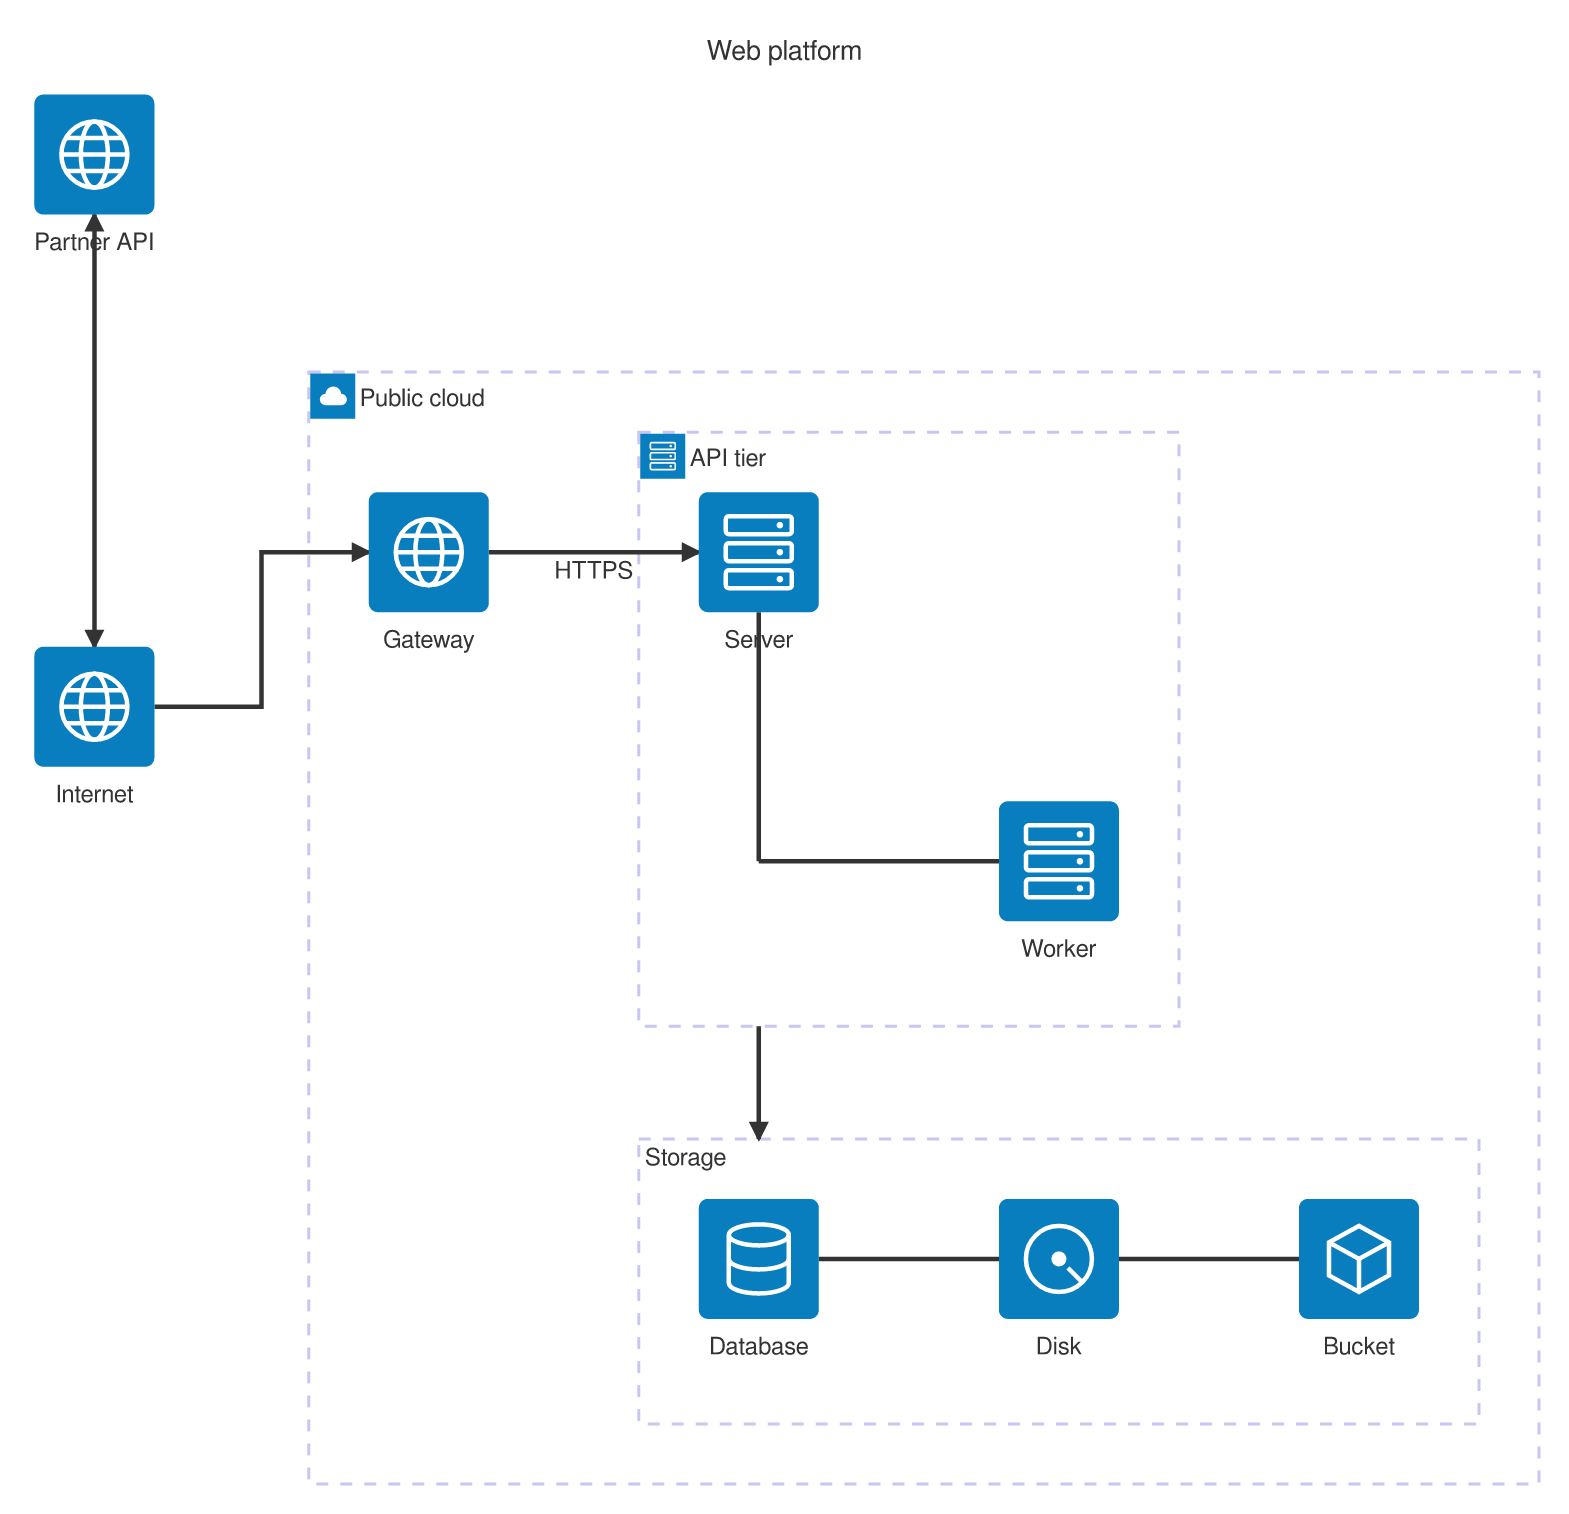
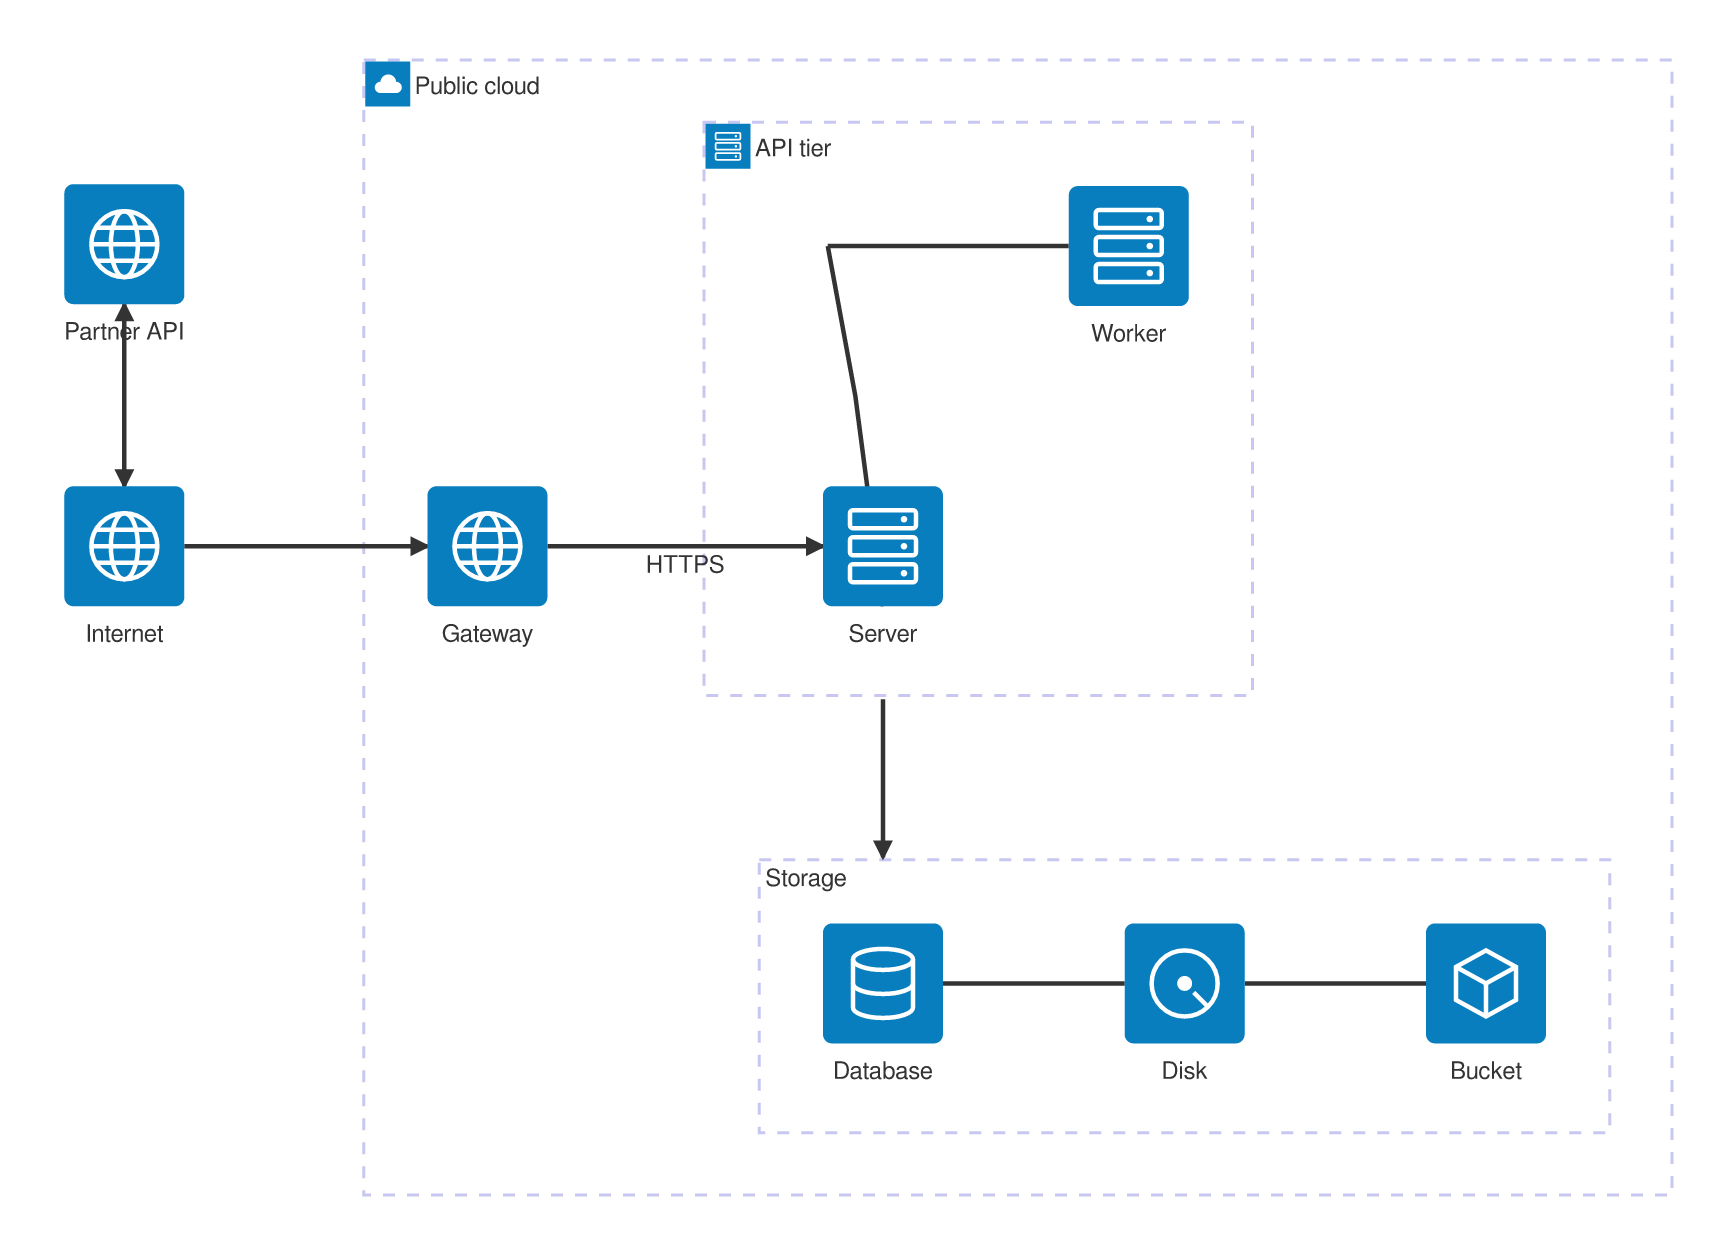
Regenerate gallery after force-directed mindmap and architecture layouts
Claude-Session: https://claude.ai/code/session_01YSBvDqvT7DHspcB7hQZR6n

diff --git a/docs/GALLERY.md b/docs/GALLERY.md
@@ -5,7 +5,7 @@ Regenerate with `cargo run --release --example gallery`.
 
 ## agentflow
 
-Source: [`examples/diagrams/agentflow.mmd`](../examples/diagrams/agentflow.mmd) · rendered in 611.88µs
+Source: [`examples/diagrams/agentflow.mmd`](../examples/diagrams/agentflow.mmd) · rendered in 540.00µs
 
 <details><summary>source</summary>
 
@@ -37,7 +37,7 @@ agentflow-beta TB
 
 ## architecture
 
-Source: [`examples/diagrams/architecture.mmd`](../examples/diagrams/architecture.mmd) · rendered in 199.60µs
+Source: [`examples/diagrams/architecture.mmd`](../examples/diagrams/architecture.mmd) · rendered in 612.50µs
 
 <details><summary>source</summary>
 
@@ -74,7 +74,7 @@ architecture-beta
 
 ## block
 
-Source: [`examples/diagrams/block.mmd`](../examples/diagrams/block.mmd) · rendered in 206.50µs
+Source: [`examples/diagrams/block.mmd`](../examples/diagrams/block.mmd) · rendered in 185.29µs
 
 <details><summary>source</summary>
 
@@ -109,7 +109,7 @@ block-beta
 
 ## c4-container
 
-Source: [`examples/diagrams/c4-container.mmd`](../examples/diagrams/c4-container.mmd) · rendered in 538.37µs
+Source: [`examples/diagrams/c4-container.mmd`](../examples/diagrams/c4-container.mmd) · rendered in 503.97µs
 
 <details><summary>source</summary>
 
@@ -154,7 +154,7 @@ C4Container
 
 ## c4
 
-Source: [`examples/diagrams/c4.mmd`](../examples/diagrams/c4.mmd) · rendered in 580.71µs
+Source: [`examples/diagrams/c4.mmd`](../examples/diagrams/c4.mmd) · rendered in 507.02µs
 
 <details><summary>source</summary>
 
@@ -209,7 +209,7 @@ C4Context
 
 ## class
 
-Source: [`examples/diagrams/class.mmd`](../examples/diagrams/class.mmd) · rendered in 485.36µs
+Source: [`examples/diagrams/class.mmd`](../examples/diagrams/class.mmd) · rendered in 341.94µs
 
 <details><summary>source</summary>
 
@@ -249,7 +249,7 @@ classDiagram
 
 ## cynefin
 
-Source: [`examples/diagrams/cynefin.mmd`](../examples/diagrams/cynefin.mmd) · rendered in 132.83µs
+Source: [`examples/diagrams/cynefin.mmd`](../examples/diagrams/cynefin.mmd) · rendered in 139.14µs
 
 <details><summary>source</summary>
 
@@ -285,7 +285,7 @@ cynefin-beta
 
 ## er-subgraphs
 
-Source: [`examples/diagrams/er-subgraphs.mmd`](../examples/diagrams/er-subgraphs.mmd) · rendered in 401.42µs
+Source: [`examples/diagrams/er-subgraphs.mmd`](../examples/diagrams/er-subgraphs.mmd) · rendered in 446.28µs
 
 <details><summary>source</summary>
 
@@ -325,7 +325,7 @@ erDiagram
 
 ## er
 
-Source: [`examples/diagrams/er.mmd`](../examples/diagrams/er.mmd) · rendered in 346.04µs
+Source: [`examples/diagrams/er.mmd`](../examples/diagrams/er.mmd) · rendered in 369.60µs
 
 <details><summary>source</summary>
 
@@ -377,7 +377,7 @@ erDiagram
 
 ## eventmodeling
 
-Source: [`examples/diagrams/eventmodeling.mmd`](../examples/diagrams/eventmodeling.mmd) · rendered in 161.07µs
+Source: [`examples/diagrams/eventmodeling.mmd`](../examples/diagrams/eventmodeling.mmd) · rendered in 172.79µs
 
 <details><summary>source</summary>
 
@@ -401,7 +401,7 @@ tf 08 rmo CartItems ->> 03 ->> 07
 
 ## flowchart
 
-Source: [`examples/diagrams/flowchart.mmd`](../examples/diagrams/flowchart.mmd) · rendered in 388.80µs
+Source: [`examples/diagrams/flowchart.mmd`](../examples/diagrams/flowchart.mmd) · rendered in 385.44µs
 
 <details><summary>source</summary>
 
@@ -429,7 +429,7 @@ flowchart TD
 
 ## gantt
 
-Source: [`examples/diagrams/gantt.mmd`](../examples/diagrams/gantt.mmd) · rendered in 541.77µs
+Source: [`examples/diagrams/gantt.mmd`](../examples/diagrams/gantt.mmd) · rendered in 582.04µs
 
 <details><summary>source</summary>
 
@@ -469,7 +469,7 @@ gantt
 
 ## gitgraph
 
-Source: [`examples/diagrams/gitgraph.mmd`](../examples/diagrams/gitgraph.mmd) · rendered in 180.30µs
+Source: [`examples/diagrams/gitgraph.mmd`](../examples/diagrams/gitgraph.mmd) · rendered in 163.53µs
 
 <details><summary>source</summary>
 
@@ -507,7 +507,7 @@ gitGraph
 
 ## info
 
-Source: [`examples/diagrams/info.mmd`](../examples/diagrams/info.mmd) · rendered in 93.04µs
+Source: [`examples/diagrams/info.mmd`](../examples/diagrams/info.mmd) · rendered in 88.00µs
 
 <details><summary>source</summary>
 
@@ -521,7 +521,7 @@ info showInfo
 
 ## ishikawa
 
-Source: [`examples/diagrams/ishikawa.mmd`](../examples/diagrams/ishikawa.mmd) · rendered in 177.68µs
+Source: [`examples/diagrams/ishikawa.mmd`](../examples/diagrams/ishikawa.mmd) · rendered in 158.63µs
 
 <details><summary>source</summary>
 
@@ -554,7 +554,7 @@ ishikawa-beta
 
 ## journey
 
-Source: [`examples/diagrams/journey.mmd`](../examples/diagrams/journey.mmd) · rendered in 140.67µs
+Source: [`examples/diagrams/journey.mmd`](../examples/diagrams/journey.mmd) · rendered in 151.98µs
 
 <details><summary>source</summary>
 
@@ -579,7 +579,7 @@ journey
 
 ## kanban
 
-Source: [`examples/diagrams/kanban.mmd`](../examples/diagrams/kanban.mmd) · rendered in 209.37µs
+Source: [`examples/diagrams/kanban.mmd`](../examples/diagrams/kanban.mmd) · rendered in 221.96µs
 
 <details><summary>source</summary>
 
@@ -614,7 +614,7 @@ kanban
 
 ## mindmap
 
-Source: [`examples/diagrams/mindmap.mmd`](../examples/diagrams/mindmap.mmd) · rendered in 214.48µs
+Source: [`examples/diagrams/mindmap.mmd`](../examples/diagrams/mindmap.mmd) · rendered in 2.69ms
 
 <details><summary>source</summary>
 
@@ -652,7 +652,7 @@ mindmap
 
 ## packet
 
-Source: [`examples/diagrams/packet.mmd`](../examples/diagrams/packet.mmd) · rendered in 238.46µs
+Source: [`examples/diagrams/packet.mmd`](../examples/diagrams/packet.mmd) · rendered in 274.48µs
 
 <details><summary>source</summary>
 
@@ -686,7 +686,7 @@ packet-beta
 
 ## pie
 
-Source: [`examples/diagrams/pie.mmd`](../examples/diagrams/pie.mmd) · rendered in 103.35µs
+Source: [`examples/diagrams/pie.mmd`](../examples/diagrams/pie.mmd) · rendered in 123.36µs
 
 <details><summary>source</summary>
 
@@ -705,7 +705,7 @@ pie showData
 
 ## quadrant
 
-Source: [`examples/diagrams/quadrant.mmd`](../examples/diagrams/quadrant.mmd) · rendered in 130.89µs
+Source: [`examples/diagrams/quadrant.mmd`](../examples/diagrams/quadrant.mmd) · rendered in 141.32µs
 
 <details><summary>source</summary>
 
@@ -734,7 +734,7 @@ quadrantChart
 
 ## radar
 
-Source: [`examples/diagrams/radar.mmd`](../examples/diagrams/radar.mmd) · rendered in 150.92µs
+Source: [`examples/diagrams/radar.mmd`](../examples/diagrams/radar.mmd) · rendered in 170.14µs
 
 <details><summary>source</summary>
 
@@ -762,7 +762,7 @@ radar-beta
 
 ## railroad-abnf
 
-Source: [`examples/diagrams/railroad-abnf.mmd`](../examples/diagrams/railroad-abnf.mmd) · rendered in 158.10µs
+Source: [`examples/diagrams/railroad-abnf.mmd`](../examples/diagrams/railroad-abnf.mmd) · rendered in 172.15µs
 
 <details><summary>source</summary>
 
@@ -783,7 +783,7 @@ port = [ ":" ] 1*5DIGIT %x30-39 ;
 
 ## railroad-ir
 
-Source: [`examples/diagrams/railroad-ir.mmd`](../examples/diagrams/railroad-ir.mmd) · rendered in 167.23µs
+Source: [`examples/diagrams/railroad-ir.mmd`](../examples/diagrams/railroad-ir.mmd) · rendered in 162.19µs
 
 <details><summary>source</summary>
 
@@ -811,7 +811,7 @@ number = sequence(optional(terminal("-")), oneOrMore(nonterminal("digit")), spec
 
 ## railroad-peg
 
-Source: [`examples/diagrams/railroad-peg.mmd`](../examples/diagrams/railroad-peg.mmd) · rendered in 163.83µs
+Source: [`examples/diagrams/railroad-peg.mmd`](../examples/diagrams/railroad-peg.mmd) · rendered in 157.91µs
 
 <details><summary>source</summary>
 
@@ -832,7 +832,7 @@ Identifier <- !Keyword Letter Letter* . ;
 
 ## railroad
 
-Source: [`examples/diagrams/railroad.mmd`](../examples/diagrams/railroad.mmd) · rendered in 272.46µs
+Source: [`examples/diagrams/railroad.mmd`](../examples/diagrams/railroad.mmd) · rendered in 189.80µs
 
 <details><summary>source</summary>
 
@@ -854,7 +854,7 @@ string = '"' { ? any character except quote ? } '"' ;
 
 ## requirement
 
-Source: [`examples/diagrams/requirement.mmd`](../examples/diagrams/requirement.mmd) · rendered in 655.08µs
+Source: [`examples/diagrams/requirement.mmd`](../examples/diagrams/requirement.mmd) · rendered in 451.84µs
 
 <details><summary>source</summary>
 
@@ -936,7 +936,7 @@ requirementDiagram
 
 ## sankey
 
-Source: [`examples/diagrams/sankey.mmd`](../examples/diagrams/sankey.mmd) · rendered in 463.29µs
+Source: [`examples/diagrams/sankey.mmd`](../examples/diagrams/sankey.mmd) · rendered in 423.94µs
 
 <details><summary>source</summary>
 
@@ -981,7 +981,7 @@ Electricity grid,"Heating and cooling, homes",42.0
 
 ## sequence
 
-Source: [`examples/diagrams/sequence.mmd`](../examples/diagrams/sequence.mmd) · rendered in 215.42µs
+Source: [`examples/diagrams/sequence.mmd`](../examples/diagrams/sequence.mmd) · rendered in 191.00µs
 
 <details><summary>source</summary>
 
@@ -1016,7 +1016,7 @@ sequenceDiagram
 
 ## shapes
 
-Source: [`examples/diagrams/shapes.mmd`](../examples/diagrams/shapes.mmd) · rendered in 1.09ms
+Source: [`examples/diagrams/shapes.mmd`](../examples/diagrams/shapes.mmd) · rendered in 1.04ms
 
 <details><summary>source</summary>
 
@@ -1052,7 +1052,7 @@ flowchart LR
 
 ## state
 
-Source: [`examples/diagrams/state.mmd`](../examples/diagrams/state.mmd) · rendered in 455.54µs
+Source: [`examples/diagrams/state.mmd`](../examples/diagrams/state.mmd) · rendered in 501.78µs
 
 <details><summary>source</summary>
 
@@ -1080,7 +1080,7 @@ stateDiagram-v2
 
 ## subgraph-collapse
 
-Source: [`examples/diagrams/subgraph-collapse.mmd`](../examples/diagrams/subgraph-collapse.mmd) · rendered in 457.27µs
+Source: [`examples/diagrams/subgraph-collapse.mmd`](../examples/diagrams/subgraph-collapse.mmd) · rendered in 432.11µs
 
 <details><summary>source</summary>
 
@@ -1110,7 +1110,7 @@ flowchart LR
 
 ## subgraphs
 
-Source: [`examples/diagrams/subgraphs.mmd`](../examples/diagrams/subgraphs.mmd) · rendered in 482.00µs
+Source: [`examples/diagrams/subgraphs.mmd`](../examples/diagrams/subgraphs.mmd) · rendered in 679.01µs
 
 <details><summary>source</summary>
 
@@ -1141,7 +1141,7 @@ flowchart LR
 
 ## swimlane
 
-Source: [`examples/diagrams/swimlane.mmd`](../examples/diagrams/swimlane.mmd) · rendered in 294.22µs
+Source: [`examples/diagrams/swimlane.mmd`](../examples/diagrams/swimlane.mmd) · rendered in 261.34µs
 
 <details><summary>source</summary>
 
@@ -1171,7 +1171,7 @@ swimlane-beta LR
 
 ## timeline
 
-Source: [`examples/diagrams/timeline.mmd`](../examples/diagrams/timeline.mmd) · rendered in 256.89µs
+Source: [`examples/diagrams/timeline.mmd`](../examples/diagrams/timeline.mmd) · rendered in 258.84µs
 
 <details><summary>source</summary>
 
@@ -1196,7 +1196,7 @@ timeline
 
 ## treemap
 
-Source: [`examples/diagrams/treemap.mmd`](../examples/diagrams/treemap.mmd) · rendered in 187.21µs
+Source: [`examples/diagrams/treemap.mmd`](../examples/diagrams/treemap.mmd) · rendered in 204.55µs
 
 <details><summary>source</summary>
 
@@ -1233,7 +1233,7 @@ classDef highlight fill:#ffd166,stroke:#c77d00,color:#000
 
 ## treeview
 
-Source: [`examples/diagrams/treeview.mmd`](../examples/diagrams/treeview.mmd) · rendered in 139.84µs
+Source: [`examples/diagrams/treeview.mmd`](../examples/diagrams/treeview.mmd) · rendered in 142.11µs
 
 <details><summary>source</summary>
 
@@ -1259,7 +1259,7 @@ treeView-beta
 
 ## usecase
 
-Source: [`examples/diagrams/usecase.mmd`](../examples/diagrams/usecase.mmd) · rendered in 488.86µs
+Source: [`examples/diagrams/usecase.mmd`](../examples/diagrams/usecase.mmd) · rendered in 526.12µs
 
 <details><summary>source</summary>
 
@@ -1303,7 +1303,7 @@ style pays stroke:#6b46c1,stroke-width:2px
 
 ## venn
 
-Source: [`examples/diagrams/venn.mmd`](../examples/diagrams/venn.mmd) · rendered in 333.05µs
+Source: [`examples/diagrams/venn.mmd`](../examples/diagrams/venn.mmd) · rendered in 343.67µs
 
 <details><summary>source</summary>
 
@@ -1327,7 +1327,7 @@ venn-beta
 
 ## wardley
 
-Source: [`examples/diagrams/wardley.mmd`](../examples/diagrams/wardley.mmd) · rendered in 166.12µs
+Source: [`examples/diagrams/wardley.mmd`](../examples/diagrams/wardley.mmd) · rendered in 152.62µs
 
 <details><summary>source</summary>
 
@@ -1376,7 +1376,7 @@ note "Migrate to cloud-native database" [0.60, 0.50]
 
 ## xychart
 
-Source: [`examples/diagrams/xychart.mmd`](../examples/diagrams/xychart.mmd) · rendered in 202.34µs
+Source: [`examples/diagrams/xychart.mmd`](../examples/diagrams/xychart.mmd) · rendered in 193.83µs
 
 <details><summary>source</summary>
 
@@ -1396,7 +1396,7 @@ xychart-beta
 
 ## zenuml
 
-Source: [`examples/diagrams/zenuml.mmd`](../examples/diagrams/zenuml.mmd) · rendered in 256.66µs
+Source: [`examples/diagrams/zenuml.mmd`](../examples/diagrams/zenuml.mmd) · rendered in 256.26µs
 
 <details><summary>source</summary>
 
